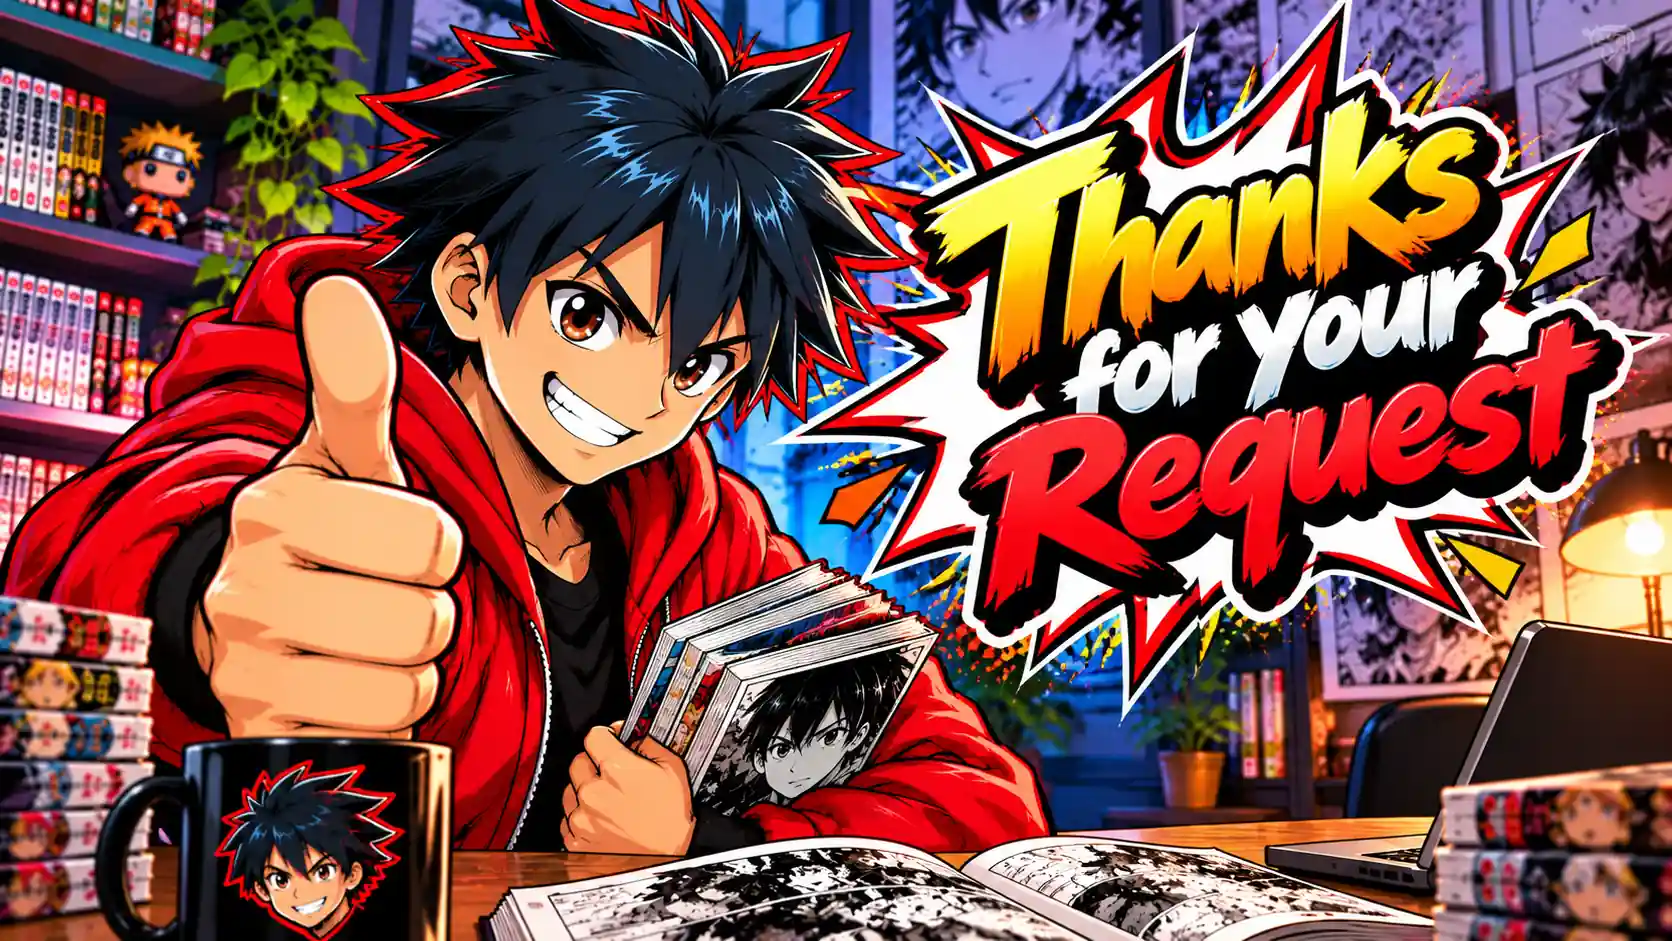
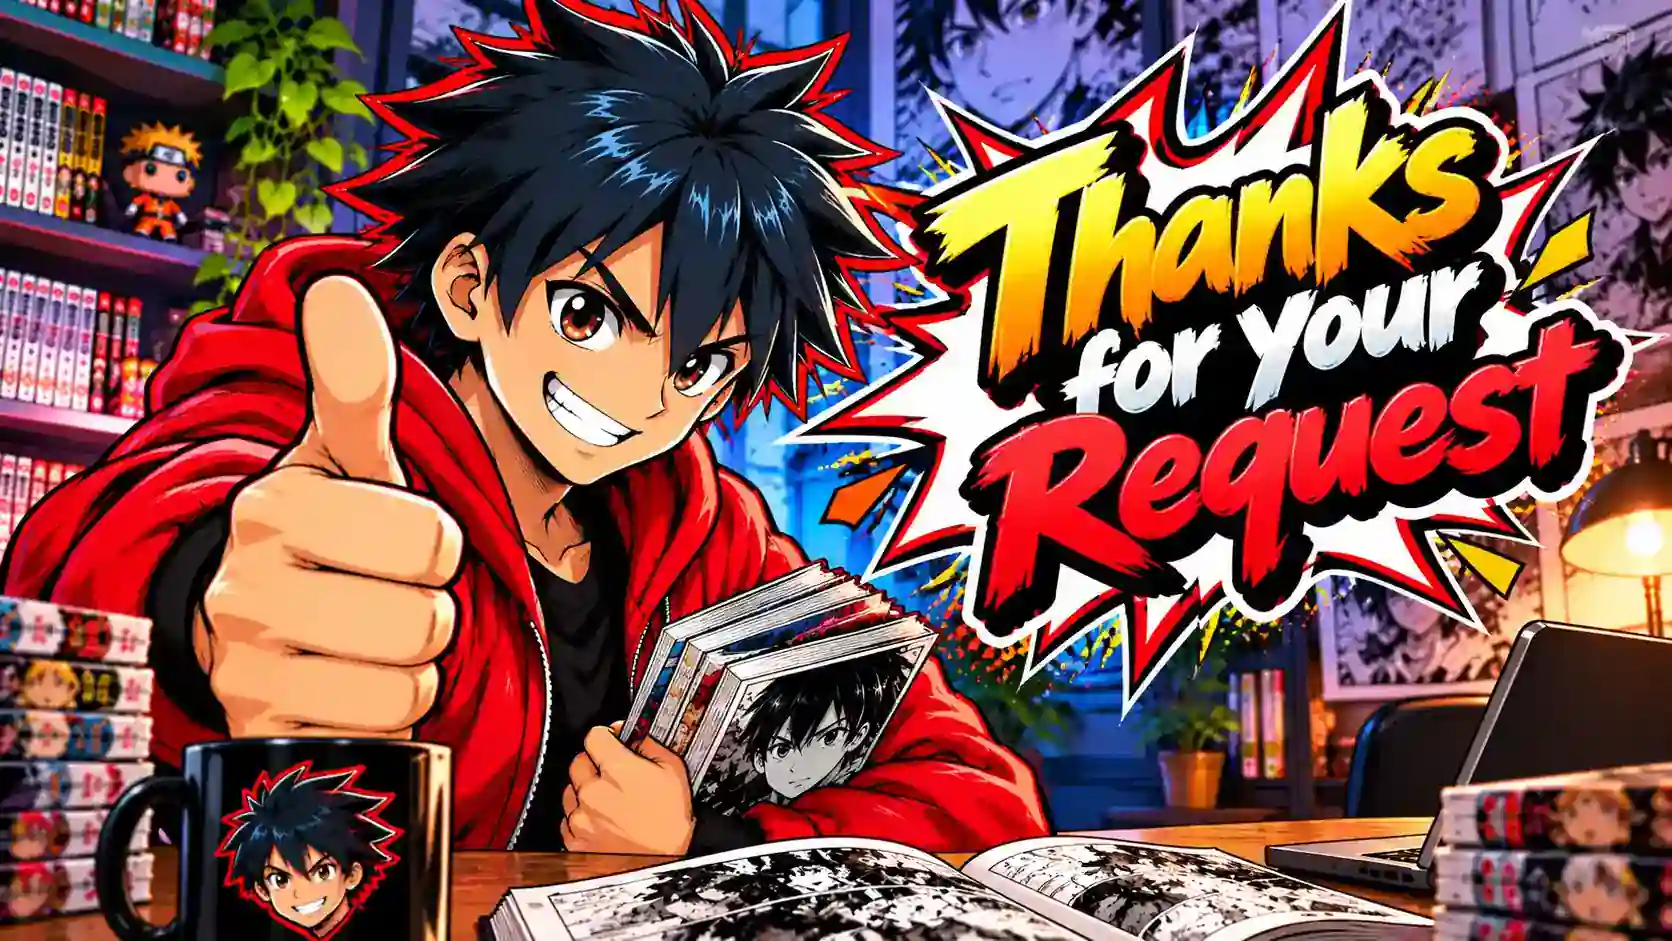
project 13

diff --git a/project/request.html b/project/request.html
@@ -59,6 +59,13 @@
     </header>
 
     <main>
+
+        <picture>
+            <source media="(min-width: 1024px)" srcset="images/formpageheroimage.webp">
+            <source media="(min-width: 608px)" srcset="images/formpageheroimagemed.webp">
+            <img src="images/formpageheroimagesmall.webp" alt="" style="width: 100%;">
+        </picture>
+
         <form method="get" action="thanks.html" class="mform">
             <fieldset>
                 <legend>Personal Information</legend>

diff --git a/project/index.html b/project/index.html
@@ -65,9 +65,7 @@
             <source media="(min-width: 1024px)" srcset="images/landingpageheroimage.webp">
             <source media="(min-width: 608px)" srcset="images/landingpageheroimagemed.webp">
             <img src="images/landingpageheroimagesmall.webp" alt="" style="width: 100%;">
-
         </picture>
-
 
     </main>
 
@@ -94,7 +92,6 @@
             <h2 id="temperature"></h2>
             <p id="description"></p>
         </div>
-
     </footer>
 </body>
 

diff --git a/project/Manga.html b/project/Manga.html
@@ -97,7 +97,7 @@
                         <div class="title">Fullmetal Alchemist</div>
                         <div class="name">Hiromu Arakawa</div>
                         <div class="btn">
-                            <a href="volumes.html?id=fullmetalalchemistl">See Volumes</a>
+                            <a href="volumes.html?id=fullmetalalchemist">See Volumes</a>
                         </div>
                     </div>
 

diff --git a/project/volumes.html b/project/volumes.html
@@ -65,7 +65,7 @@
                 <div class="manga-name"></div>
                 <div class="des"></div>
             </div>
-            
+
             <article>
                 <div id="volumeCards"></div>
                 <div id="infoModal" class="modal">
@@ -76,7 +76,7 @@
                     </div>
                 </div>
             </article>
-            </div>
+        </div>
     </main>
 
     <footer>

diff --git a/project/thanks.html b/project/thanks.html
@@ -60,6 +60,13 @@
 
     <main>
 
+        <picture>
+            <source media="(min-width: 1024px)" srcset="images/thankspageheroimage.webp">
+            <source media="(min-width: 608px)" srcset="images/thankspageheroimagemed.webp">
+            <img src="images/thankspageheroimagesmall.webp" alt="" style="width: 100%;">
+        </picture>
+
+
     </main>
 
     <footer>

diff --git a/project/styles/project-small.css b/project/styles/project-small.css
@@ -631,4 +631,6 @@ footer {
     border-left: solid 10px var(--secondary-color);
 }
 
+
+
 /*--- FORM SECTION ---*/
